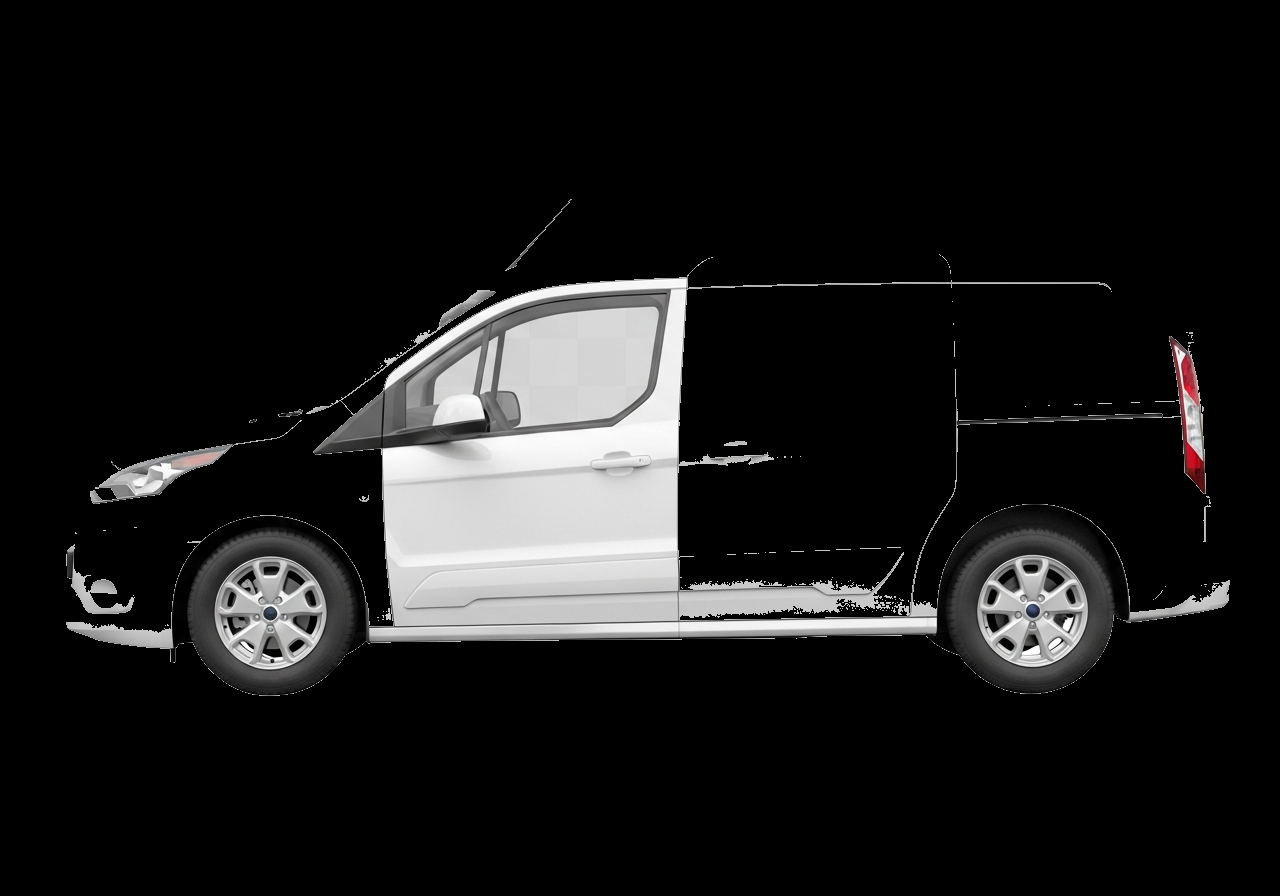
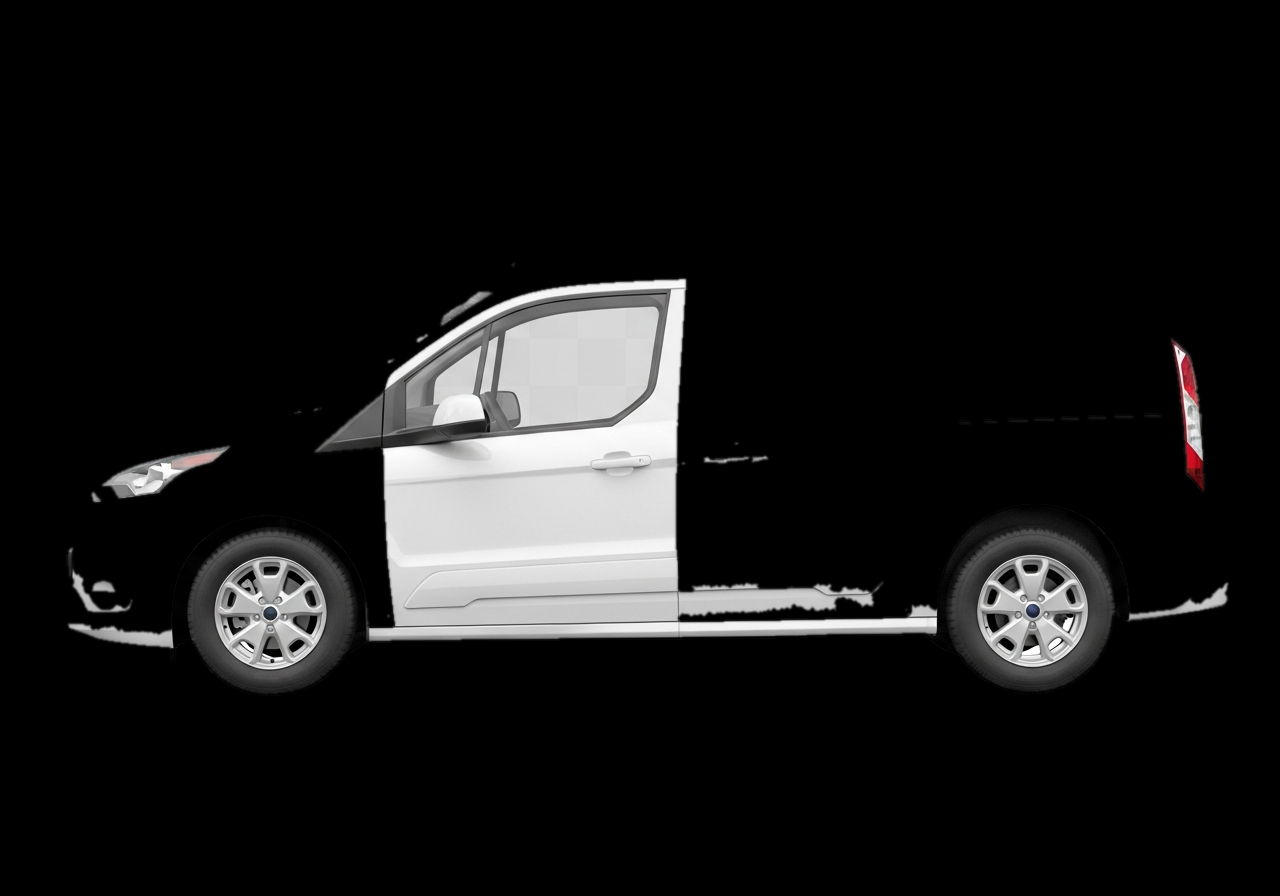
auto-commit for eb298d89-b491-4466-a941-1b88d164d0ce

diff --git a/frontend/src/pages/PaintShop.jsx b/frontend/src/pages/PaintShop.jsx
@@ -529,6 +529,8 @@ const ColorWheel = ({ value, onChange }) => {
   const [dragging, setDragging] = React.useState(null); // "wheel" | "sv"
   const [hsv, setHsv] = React.useState(() => hexToHsv(value || "#E8592F"));
   const [hexInput, setHexInput] = React.useState(value || "#E8592F");
+  const hsvRef = React.useRef(hsv);
+  hsvRef.current = hsv;
 
   // Sync external value changes
   React.useEffect(() => {
@@ -543,7 +545,7 @@ const ColorWheel = ({ value, onChange }) => {
   const RING_WIDTH = 24;
   const SV_SIZE = WHEEL_SIZE - RING_WIDTH * 2 - 16;
 
-  const commitColor = React.useCallback((h, s, v) => {
+  const emit = React.useCallback((h, s, v) => {
     const hex = hsvToHex(h, s, v);
     setHexInput(hex.toUpperCase());
     onChange(hex);
@@ -557,11 +559,9 @@ const ColorWheel = ({ value, onChange }) => {
     const cy = rect.top + rect.height / 2;
     const angle = (Math.atan2(e.clientY - cy, e.clientX - cx) * 180) / Math.PI;
     const hue = (angle + 360) % 360;
-    setHsv((p) => {
-      commitColor(hue, p.s, p.v);
-      return { ...p, h: hue };
-    });
-  }, [commitColor]);
+    setHsv((p) => ({ ...p, h: hue }));
+    emit(hue, hsvRef.current.s, hsvRef.current.v);
+  }, [emit]);
 
   // --- SV square drag ---
   const handleSvPointer = React.useCallback((e) => {
@@ -569,11 +569,9 @@ const ColorWheel = ({ value, onChange }) => {
     const rect = svRef.current.getBoundingClientRect();
     const s = Math.max(0, Math.min(1, (e.clientX - rect.left) / rect.width));
     const v = Math.max(0, Math.min(1, 1 - (e.clientY - rect.top) / rect.height));
-    setHsv((p) => {
-      commitColor(p.h, s, v);
-      return { ...p, s, v };
-    });
-  }, [commitColor]);
+    setHsv((p) => ({ ...p, s, v }));
+    emit(hsvRef.current.h, s, v);
+  }, [emit]);
 
   React.useEffect(() => {
     if (!dragging) return;